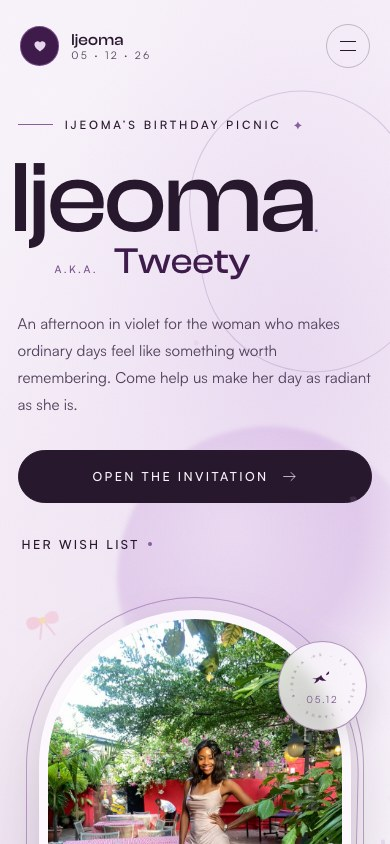
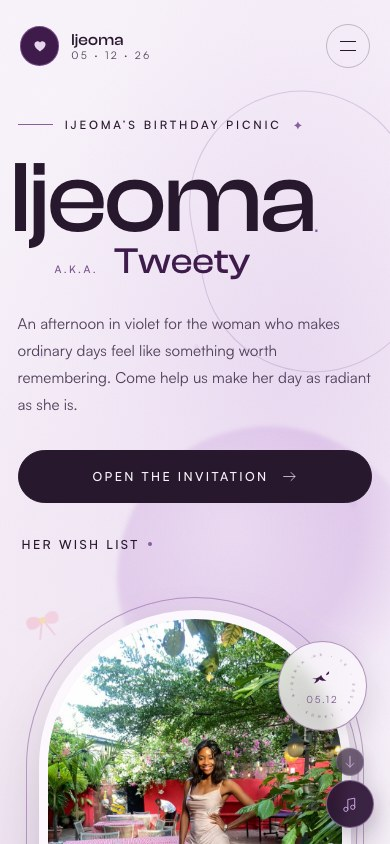
Add floating music resume trigger with down arrow

Changed region(s): [[0.8308, 0.8626, 0.9846, 1.0], [0.1231, 0.9858, 0.1538, 1.0]]

diff --git a/src/components/MusicHint.jsx b/src/components/MusicHint.jsx
@@ -1,0 +1,28 @@
+import { useMusic } from "../context/MusicContext";
+import Icon from "./Icon";
+
+export default function MusicHint({ visible }) {
+  const { resume } = useMusic();
+
+  return (
+    <div
+      className={`fixed bottom-4 right-4 z-[90] flex flex-col items-center transition duration-500 ${
+        visible ? "translate-y-0 opacity-100" : "pointer-events-none translate-y-3 opacity-0"
+      }`}
+    >
+      <span className="music-arrow pointer-events-none mb-1.5 grid h-7 w-7 place-items-center rounded-full border border-lilac/25 bg-plum-deep/85 text-lilac shadow-[0_5px_18px_rgba(40,16,49,0.22)] backdrop-blur">
+        <Icon name="arrow" className="h-4 w-4 rotate-90" strokeWidth={2} />
+      </span>
+      <button
+        type="button"
+        onClick={resume}
+        aria-label="Start or resume the music"
+        title="Tap for music"
+        className="music-button group relative grid h-12 w-12 place-items-center rounded-full border border-lilac/50 bg-plum-deep/90 text-lilac shadow-[0_8px_24px_rgba(40,16,49,0.28)] backdrop-blur transition hover:scale-105 hover:border-lilac hover:bg-plum-deep hover:text-lilac-pale focus-visible:outline focus-visible:outline-2 focus-visible:outline-offset-2 focus-visible:outline-orchid"
+      >
+        <span className="music-ring pointer-events-none absolute -inset-1 rounded-full border border-lilac/35" />
+        <Icon name="music" className="h-5 w-5" strokeWidth={1.6} />
+      </button>
+    </div>
+  );
+}

diff --git a/src/context/MusicContext.jsx b/src/context/MusicContext.jsx
@@ -62,7 +62,30 @@ export function MusicProvider({ children }) {
     return () => window.clearTimeout(nudge);
   }, [src, started]);
 
-  const value = useMemo(() => ({ ready: true, failed: false, start }), [start]);
+  const resume = useCallback(() => {
+    if (!started) {
+      start();
+      return;
+    }
+    try {
+      const playerWindow = iframeRef.current?.contentWindow;
+      playerWindow?.postMessage(
+        JSON.stringify({ event: "command", func: "setVolume", args: [100] }),
+        "*"
+      );
+      playerWindow?.postMessage(
+        JSON.stringify({ event: "command", func: "playVideo", args: [] }),
+        "*"
+      );
+    } catch {
+      // No-op: the icon is a helpful nudge, never a stop control.
+    }
+  }, [started, start]);
+
+  const value = useMemo(
+    () => ({ ready: true, failed: false, start, resume }),
+    [start, resume]
+  );
 
   return (
     <MusicContext.Provider value={value}>

diff --git a/src/App.jsx b/src/App.jsx
@@ -4,6 +4,7 @@ import { AmbientCelebration } from "./components/Celebration";
 import Footer from "./components/Footer";
 import Hero from "./components/Hero";
 import Invitation from "./components/Invitation";
+import MusicHint from "./components/MusicHint";
 import Nav from "./components/Nav";
 import OpeningGate from "./components/OpeningGate";
 import ProgressBar from "./components/ProgressBar";
@@ -36,6 +37,7 @@ function Page() {
       <Effects />
       <AmbientCelebration />
       <Nav />
+      <MusicHint visible={entered} />
       <main id="main">
         <Hero ready={entered} />
         <Invitation />

diff --git a/src/index.css b/src/index.css
@@ -591,3 +591,24 @@
   85% { opacity: 0.35; }
   100% { transform: translate3d(24px, 108vh, 0) rotate(520deg); opacity: 0; }
 }
+
+
+@layer components {
+  .music-arrow {
+    animation: music-arrow-bob 1.8s ease-in-out infinite;
+  }
+
+  .music-ring {
+    animation: music-ring 2.8s ease-in-out infinite;
+  }
+}
+
+@keyframes music-arrow-bob {
+  0%, 100% { transform: translateY(0); opacity: 0.6; }
+  50% { transform: translateY(5px); opacity: 1; }
+}
+
+@keyframes music-ring {
+  0%, 100% { transform: scale(1); opacity: 0.4; }
+  50% { transform: scale(1.16); opacity: 0.1; }
+}

diff --git a/src/components/Icon.jsx b/src/components/Icon.jsx
@@ -16,6 +16,13 @@ const paths = {
   heart: (
     <path d="M16 27S4.8 20.1 4.8 12.7a6.2 6.2 0 0 1 11.2-3.5 6.2 6.2 0 0 1 11.2 3.5C27.2 20.1 16 27 16 27Z" />
   ),
+  music: (
+    <>
+      <path d="M12.5 24.5V8.8l11-2.1v14.5" />
+      <circle cx="9.4" cy="24.5" r="3.4" />
+      <circle cx="20.4" cy="21.2" r="3.4" />
+    </>
+  ),
   bird: (
     <>
       <path d="M2.5 17.5c5 1.4 9.4-.2 12.4-4.2 1.1 3.5 3.3 6 6.8 7.4-3.8.8-6.8.2-9.1-1.5-1.6 2.8-4.2 4.6-7.9 5.2 2.2-1.7 3.5-3.5 3.6-5.5-2 .2-4-.3-5.8-1.4Z" />

diff --git a/README.md b/README.md
@@ -34,6 +34,7 @@ Directions: **+234 703 562 8526** or **+234 705 718 8970**.
 - **Venue:** full official address, two directions phone numbers and a direct Google Maps link.
 - **RSVP:** short form, confirmation, native share and `.ics` calendar download.
 - **Extras:** animated flower sprays, cakes, ribbons and floating petals across the sections, opening confetti, confetti on saved gifts, soft dust, scroll reveals and reduced-motion support.
+- **Music hint:** a floating music-note trigger with a downward arrow at the bottom right. It only starts or resumes the music — it never stops it.
 
 The main page is intentionally much shorter than the previous version: roughly **7,000px on desktop** and **9,100px on mobile**, with repeated copy removed.
 
